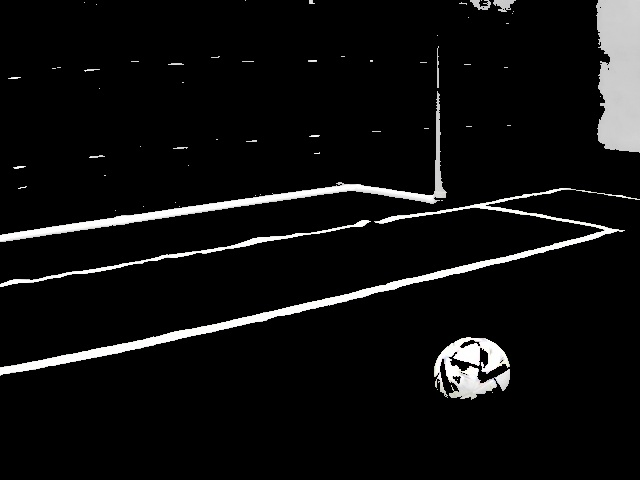
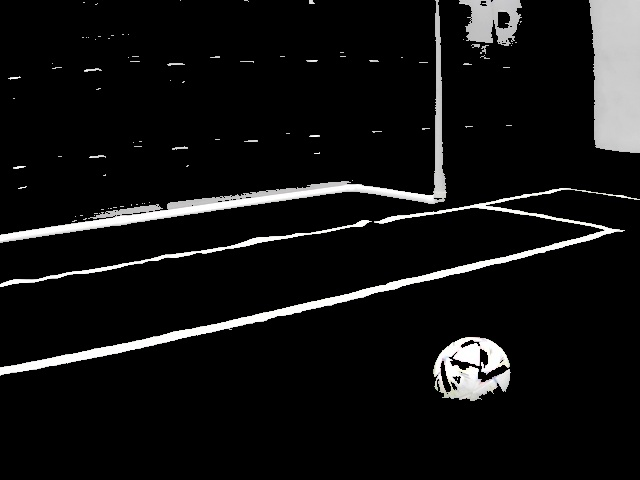
Feat: adjust the range of white

diff --git a/data/Kudos/preprocess.py b/data/Kudos/preprocess.py
@@ -9,9 +9,9 @@ def extract_white(input_image_path, output_image_path):
     # BGR에서 HSV로 변환
     hsv = cv2.cvtColor(image, cv2.COLOR_BGR2HSV)
 
-    # 흰색 범위 지정
-    lower_white = np.array([0, 0, 200], dtype=np.uint8)
-    upper_white = np.array([255, 30, 255], dtype=np.uint8)
+    # 흰색 범위 지정 (더 넓은 범위로 설정)
+    lower_white = np.array([0, 0, 190], dtype=np.uint8)
+    upper_white = np.array([255, 40, 255], dtype=np.uint8)
 
     # 흰색 부분 추출
     white_mask = cv2.inRange(hsv, lower_white, upper_white)
